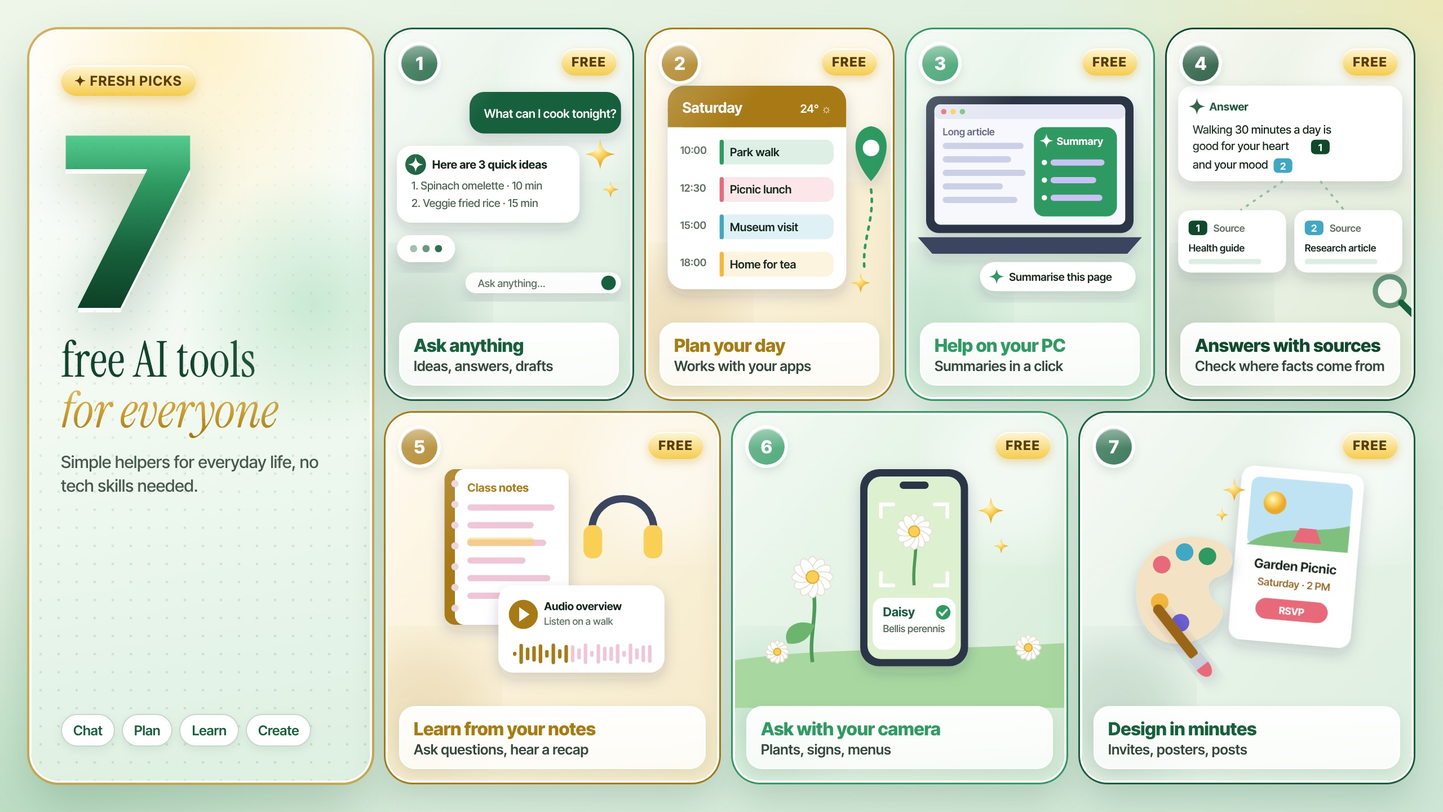
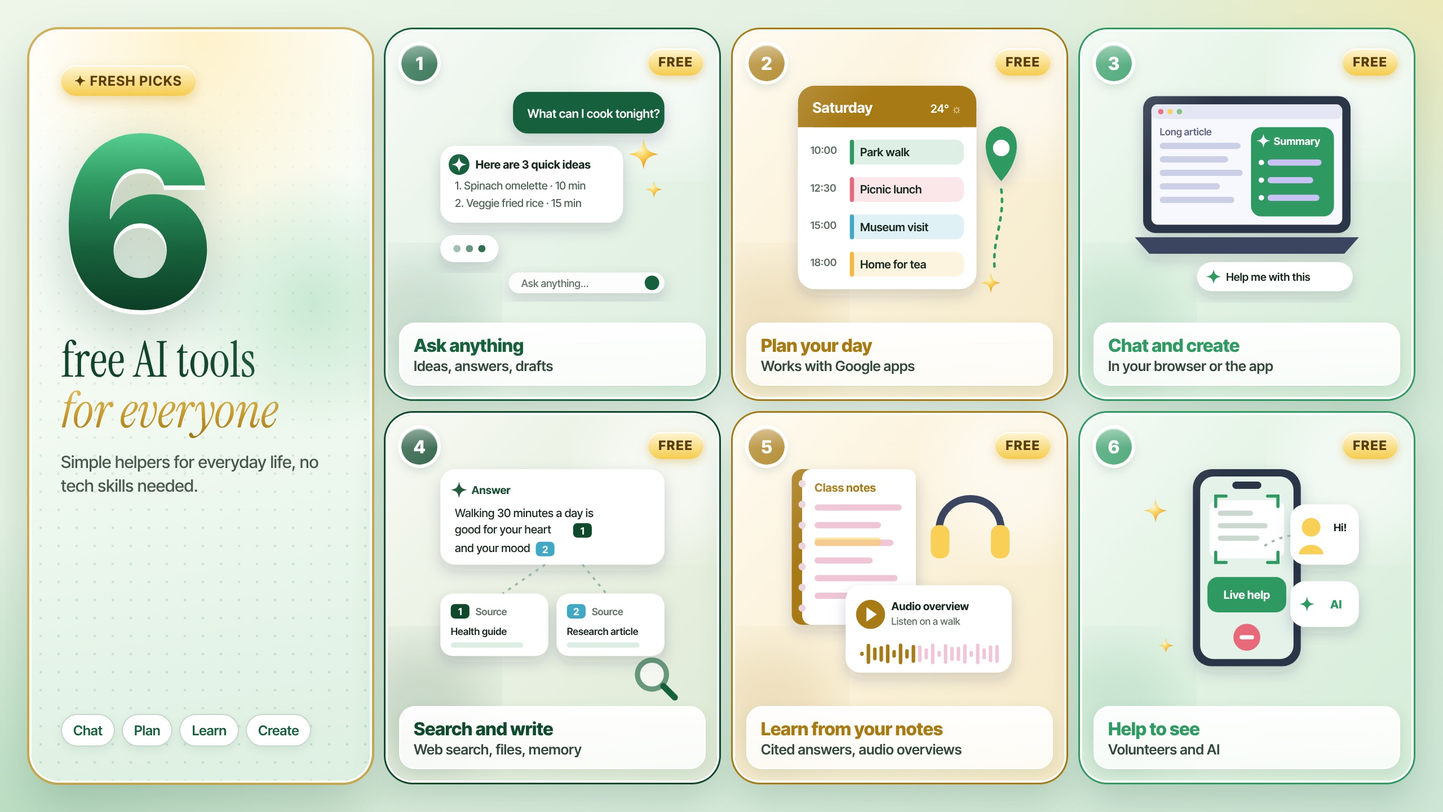
Verify the remaining facts against their sources
- AI toolkit: rewrite as "6 free AI tools" with features from each tool's
  own page; NotebookLM is now Gemini Notebook; remove Google Lens, Canva and
  Merlin Bird ID (couldn't be confirmed); new six-tile cover
- Everyday AI: match Turing, Dartmouth and the perceptron to their sources;
  remove ELIZA and Seeing AI; describe Be My Eyes from its own website
- Glossary: Turing test definition matches its source
- VERIFY-SOURCES.md: every remaining fact confirmed

Claude-Session: https://claude.ai/code/session_011joVF6bbyZDhpZpCEdrVDq

diff --git a/src/data/glossary.ts b/src/data/glossary.ts
@@ -54,7 +54,7 @@ export const GLOSSARY: GlossaryTerm[] = [
   { term: 'Token', definition: 'A small piece of text, often a word or part of a word, that a chatbot reads and writes instead of individual letters.', article: 'tokenizers-quirks' },
   { term: 'Training data', definition: 'The examples a model learns from, such as labelled photos, recorded speech or text.' },
   { term: 'Transformer', definition: 'The design, introduced in 2017, that most modern chatbots are built on. Its key idea is attention.', article: 'attention-step-by-step' },
-  { term: 'Turing test', definition: 'Alan Turing’s 1950 idea for judging machine intelligence: can a person tell a machine apart from a human in a text conversation?', article: 'ai-origins-everyday-life' },
+  { term: 'Turing test', definition: 'Alan Turing’s 1950 “imitation game” for thinking about machine intelligence: an interrogator questions a person and a machine without seeing them and tries to tell which is which.', article: 'ai-origins-everyday-life' },
   { term: 'Validation loss', definition: 'How well a model does on examples it has never seen while training. Watching it helps spot overfitting.', article: 'validation-loss-rising' },
   { term: 'Weight decay', definition: 'A gentle nudge during training that keeps a model’s settings small, encouraging simpler, more general answers.', article: 'validation-loss-rising' },
 ];

diff --git a/src/content/posts/top-7-ai-tools.md b/src/content/posts/top-7-ai-tools.md
@@ -1,96 +1,86 @@
 ---
-title: "AI toolkit: the 7 best free AI tools for everyday life"
-description: "Seven friendly AI tools anyone can try for free: for answering questions, planning your week, studying, designing and even identifying plants with your camera."
+title: "AI toolkit: 6 free AI tools for everyday life"
+description: "Six AI tools you can start using for free, checked against each tool's own website: for questions, planning, writing, studying your notes and help to see."
 pubDate: 2026-11-05
 topic: "AI Toolkit"
 level: Beginner
 cover: /images/cover-top-7-tools.jpg
-coverAlt: "A bento-style collage on a soft sage background: a light, glossy title card with a big glossy green 7 reading 'free AI tools for everyone', beside seven numbered tiles marked free, each showing a small app scene: a chat suggesting quick dinners, a Saturday plan with a map pin, a laptop summarising a page, an answer with numbered sources, class notes with an audio overview, a phone camera identifying a daisy, and a garden picnic invitation with a paint palette."
+coverAlt: "A bento-style collage on a soft sage background: a light title card with a big glossy green 6 reading 'free AI tools for everyone', beside six numbered tiles marked free: a chat suggesting quick dinners, a Saturday plan with a map pin, a laptop chat, an answer with numbered sources, class notes with an audio overview, and a phone offering live visual help from a volunteer and AI."
 takeaways:
-  - "You only need one or two AI tools to start, and all seven here have a free version."
-  - "Pick by job: chat assistants for ideas, Perplexity for sources, NotebookLM for notes, Lens for the world around you, Canva for design."
-  - "Double-check important facts and keep private details out of your chats."
+  - "You only need one or two AI tools to start, and all six here can be used for free."
+  - "Pick by job: a chat assistant for ideas and writing, Gemini Notebook for your own notes, Be My Eyes for help to see."
+  - "Free plans have usage limits, so double-check important facts and keep private details out of your chats."
 ---
 
-There are thousands of AI tools out there, and new ones seem to arrive every week. It's easy to feel you're missing out, or to not know where to begin.
+There are lots of AI tools out there, and new ones arrive all the time. The good news: you don't need many to start.
 
-The good news: you don't need many. Here are seven friendly tools that each do one everyday job really well. All of them have a **free version**, and none of them need any technical knowledge.
+Here are six friendly tools for everyday jobs. Each one has a free plan or free app, which I checked on the tool's own website in November 2026. You can start with any of them by simply typing a question.
 
-## 1. ChatGPT: your all-round helper
+## 1. ChatGPT: an all-round helper
 
 **Best for:** questions, ideas, explanations and first drafts.
 
-ChatGPT is a chat assistant from OpenAI. You type (or speak) a question, and it answers in plain language. It's a great place to start because it can help with almost anything: planning a birthday party, explaining a confusing letter, or suggesting a recipe for what's left in your fridge.
+ChatGPT is a chat assistant from OpenAI. Its free plan includes unlimited text chats, plus a limited number of file uploads, image creations and voice chats.
 
 > **Try this:** "I have eggs, spinach and half an onion. Suggest three quick dinners, with steps."
 
 [chatgpt.com](https://chatgpt.com)
 
-## 2. Google Gemini: help inside the apps you already use
+## 2. Google Gemini: help that works with Google apps
 
-**Best for:** people who use Gmail, Google Docs, Maps or an Android phone.
+**Best for:** people who use Gmail, Google Docs, Maps or YouTube.
 
-Gemini is Google's AI assistant. Alongside chatting, it can connect with Google apps when you allow it, so it can help summarise a long email thread or plan a day trip with places from Maps.
+Gemini is Google's AI assistant, free with a Google Account. You can choose to turn on its connections to other Google services, such as Workspace, Maps and YouTube, and turn them off again.
 
 > **Try this:** "Plan a relaxed Saturday in [your town] with a park, a café and a museum, and keep travel time short."
 
-[gemini.google.com](https://gemini.google.com)
+[gemini.google](https://gemini.google/overview/)
 
-## 3. Microsoft Copilot: a helper on your Windows PC
+## 3. Microsoft Copilot: Microsoft's AI assistant
 
-**Best for:** people who use Windows, Edge or Microsoft Office.
+**Best for:** people who use Microsoft products.
 
-Copilot is Microsoft's AI assistant. It's built into Windows and the Edge browser, so it's often only a click away. It can answer questions, summarise a web page you're reading, or help you write a polite reply.
+Copilot is Microsoft's AI assistant. You can chat with it for free in your web browser or its app. Paid Microsoft 365 plans add higher usage and Copilot inside the Word, Excel, PowerPoint and Outlook desktop apps.
 
-> **Try this:** open a long article in Edge and ask Copilot, "Summarise this page in five bullet points."
+> **Try this:** "Help me write a short, polite reply declining a meeting invitation."
 
 [copilot.microsoft.com](https://copilot.microsoft.com)
 
-## 4. Perplexity: answers with sources
+## 4. Claude: chat, search and create files
 
-**Best for:** looking things up when you want to check where the answer came from.
+**Best for:** writing, research and working through ideas.
 
-Perplexity works like a search engine that writes you a short answer, then lists the websites it used. Being able to click through to the original source makes it easier to check facts, which is always a good habit with AI.
+Claude is a chat assistant from Anthropic. Its free plan works on the web, desktop and mobile. It can search the web, create files and run code, and it remembers context across conversations. Free use is limited every 5 hours and every week.
 
-> **Try this:** "What are the health benefits of walking 30 minutes a day? Include sources."
+> **Try this:** "Turn these rough notes into a friendly one-page newsletter for my book club."
 
-[perplexity.ai](https://www.perplexity.ai)
+[claude.ai](https://claude.ai)
 
-## 5. NotebookLM: learn from your own notes
+## 5. Gemini Notebook: learn from your own sources
 
 **Best for:** students, book clubs and anyone with lots of reading.
 
-NotebookLM from Google lets you upload your own documents, such as class notes, PDFs or articles, and then ask questions about them. Its answers point to the exact part of your documents they came from. It can even turn your notes into a friendly, podcast-style audio summary to listen to on a walk.
+Gemini Notebook is Google's notebook tool. (The old NotebookLM web address now leads here.) You add your own sources, such as PDFs, websites, YouTube videos, audio files, Google Docs or Slides, then chat with your notebook. Its answers include in-line citations, so you can see which source they came from.
 
-> **Try this:** upload a long report and ask, "What are the three main points, and what should I do next?"
+It can also turn your sources into study guides, mind maps and **Audio Overviews**: discussions between AI hosts that summarise the key topics. It supports more than 80 languages, and you can use it without a paid plan.
 
-[notebooklm.google.com](https://notebooklm.google.com)
+> **Try this:** add a long report and ask, "What are the three main points, and what should I do next?"
 
-## 6. Google Lens: ask questions with your camera
+[notebook.google](https://notebook.google)
 
-**Best for:** curious minds, travellers and gardeners.
+## 6. Be My Eyes: help to see
 
-Point your phone camera at something and Google Lens tells you about it. It can name a plant or a bird, translate a menu in another language, or copy text from a sign into your notes. It's built into the Google app and many Android cameras.
+**Best for:** blind and low-vision people, and anyone who supports them.
 
-> **Try this:** next time you're on a walk, point your camera at a flower you don't recognise.
+The free Be My Eyes app connects blind and low-vision people with real-time visual help from volunteers around the world. It also offers an AI assistant called Be My AI.
 
-[lens.google](https://lens.google)
+> **Try this:** if you have good eyesight, sign up as a volunteer and help someone when you're free.
 
-## 7. Canva: design in minutes
+[bemyeyes.com](https://www.bemyeyes.com)
 
-**Best for:** invitations, posters, social posts and presentations.
+## Also worth a look
 
-Canva is a design website with friendly AI features (called Magic Studio). You can describe an image you'd like, resize a design for different platforms, or get help writing the text. It's lovely for school projects, small businesses and family events.
-
-> **Try this:** "Make a cheerful invitation for a garden picnic on Saturday at 2pm."
-
-[canva.com](https://www.canva.com)
-
-## Honourable mentions
-
-- **[Claude](https://claude.ai):** a thoughtful chat assistant from Anthropic, especially good for writing and working through long documents.
-- **[Merlin Bird ID](https://merlin.allaboutbirds.org):** a free app from the Cornell Lab of Ornithology that identifies birds from their song. A real joy on a morning walk.
-- **[Be My Eyes](https://www.bemyeyes.com):** a free app that uses AI and volunteers to help blind and low-vision people with everyday tasks.
+**[Perplexity](https://www.perplexity.ai)** gives answers with a list of the sources it used, so you can check where information came from. Check its website for its current plans.
 
 ## How to choose
 
@@ -98,26 +88,25 @@ You really only need one or two to start:
 
 | If you want to… | Start with |
 | --- | --- |
-| Ask anything and get ideas | ChatGPT, Gemini or Copilot |
-| Check facts with sources | Perplexity |
-| Study your own documents | NotebookLM |
-| Learn about the world around you | Google Lens |
-| Make something that looks good | Canva |
+| Ask anything and get ideas | ChatGPT, Gemini, Copilot or Claude |
+| Study your own documents | Gemini Notebook |
+| Check where an answer came from | Gemini Notebook (citations) or Perplexity (sources) |
+| Get help seeing something | Be My Eyes |
 
 ## A few friendly safety tips
 
 - **Double-check important facts**, especially about health, money or the law.
 - **Keep private details private.** Avoid sharing passwords, bank details or other people's personal information.
-- **Look at the settings.** Many tools let you choose whether your chats are saved or used to improve the service.
-- **Free versions have limits.** That's fine for everyday use; you can always decide later if a paid plan is worth it.
+- **Look at the settings.** Check what each tool can connect to, and turn off anything you don't need.
+- **Free plans have limits.** That's fine for everyday use; you can decide later if a paid plan is worth it.
 
 ## Common questions
 
 **Are these tools really free?**
-Yes, each one has a free version. Some limit how much you can use them each day, or keep newer features for paid plans.
+Yes. Each tool's website lists a free plan or free app (checked in November 2026). Free plans have usage limits, and some features are kept for paid plans.
 
 **Do I need to install anything?**
-Most work in your web browser. Google Lens, Merlin and Be My Eyes are easiest to use as phone apps.
+No for most of them: ChatGPT, Gemini, Copilot, Claude and Gemini Notebook work in your web browser. Be My Eyes is designed for your phone's camera, and also has a desktop version.
 
 **Which one is the best?**
 The best tool is the one that fits your everyday job. Try one this week, and keep it if it saves you time or brings you joy.
@@ -126,15 +115,18 @@ The best tool is the one that fits your everyday job. Try one this week, and kee
 
 Pick **one** tool from this list and use it for one small task each day for a week. Notice what it does well and where you still prefer to do things yourself. Then come and tell me on [LinkedIn](https://www.linkedin.com/in/thahira-syed-2827ba426/) which one you chose!
 
-> **A quick note:** these are my own friendly picks, and nobody paid to be included. Product names belong to their owners, and AIERA-TS isn't connected to any of these companies. Features and free plans change over time, so check each tool's website for the latest details.
+> **A quick note:** these are my own picks, and nobody paid to be included. Product names belong to their owners, and AIERA-TS isn't connected to any of these companies. Features and free plans change over time, so check each tool's website for the latest details.
 
 ## Sources & further reading
 
-Each tool's official website, where you can check the latest features and free plans (this list was written in November 2026):
+Each tool's own page, opened on 15 November 2026:
 
-- OpenAI, [ChatGPT](https://chatgpt.com) · Google, [Gemini](https://gemini.google.com) · Microsoft, [Copilot](https://copilot.microsoft.com)
-- [Perplexity](https://www.perplexity.ai) · Google, [NotebookLM](https://notebooklm.google.com) · Google, [Lens](https://lens.google) · [Canva](https://www.canva.com)
-- Anthropic, [Claude](https://claude.ai) · Cornell Lab of Ornithology, [Merlin Bird ID](https://merlin.allaboutbirds.org) · [Be My Eyes](https://www.bemyeyes.com)
+- OpenAI, [*ChatGPT pricing*](https://chatgpt.com/pricing/)
+- Google, [*Gemini plans*](https://gemini.google/subscriptions/) and [*Gemini overview*](https://gemini.google/overview/)
+- Microsoft, [*Copilot for individuals*](https://www.microsoft.com/en-us/microsoft-copilot/for-individuals)
+- Anthropic, [*Claude pricing*](https://claude.com/pricing)
+- Google, [*Learn about Gemini Notebook*](https://support.google.com/gemininotebook/answer/16164461), [*Gemini Notebook plans*](https://support.google.com/gemininotebook/answer/16213268) and [*Audio Overview*](https://support.google.com/gemininotebook/answer/16212820)
+- [*Be My Eyes*](https://www.bemyeyes.com/)
+- Perplexity, [*Getting started*](https://www.perplexity.ai/hub/getting-started)
 - [AI agents unpacked: your new digital assistant](/blog/what-is-agentic-ai/)
 - [LLM evaluation made simple: how to test a chatbot fairly](/blog/evaluating-llm-outputs/)
-- [Creative AI: how to use AI as your creative co-pilot](/blog/ai-creativity-guide/)

diff --git a/VERIFY-SOURCES.md b/VERIFY-SOURCES.md
@@ -1,9 +1,9 @@
 # Fact check against sources (content rule 2)
 
-Checked by Claude on 15 November 2026 by opening each source page. This file is not part of the website.
+Checked by Claude on 15 November 2026 by opening each source page. Every fact is now confirmed. This file is not part of the website.
 
 - **Ticked** = the source page was opened and confirms the fact.
-- **Unticked** = the source couldn't be opened automatically (the publisher blocks automated readers). Please check these by hand.
+- Facts that couldn't be confirmed from an opened source have been removed from the articles.
 
 ## Banking and insurance security (`ai-in-banking-and-insurance`)
 
@@ -24,10 +24,11 @@ Checked by Claude on 15 November 2026 by opening each source page. This file is 
 - [x] Project Green Light: "early numbers indicate a potential for up to 30% reduction in stops and 10% reduction in greenhouse gas emissions" ([Google](https://sites.research.google/gr/greenlight/)). **Corrected:** the article said "up to 10% lower emissions"; it now matches the source's wording.
 - [x] See & Spray reduces herbicide use: John Deere says it "significantly" reduces it ([John Deere](https://www.deere.com/en-us/products-solutions/sprayers-and-applicators/see-spray)). **Corrected:** "herbicide savings of more than half" isn't on John Deere's page, so it was replaced with John Deere's own wording.
 - **Removed:** the PlantVillage Nuru app (offline crop diagnosis). The PlantVillage website doesn't mention it.
-- [ ] Turing asked "Can machines think?" (1950): https://doi.org/10.1093/mind/LIX.236.433 (link works; the publisher blocks automated reading)
-- [ ] The 1956 Dartmouth workshop named "artificial intelligence": https://jmc.stanford.edu/articles/dartmouth/dartmouth.pdf (couldn't be opened securely from Claude's workspace)
-- [ ] Rosenblatt's perceptron (1958): https://doi.org/10.1037/h0042519 (link works; the publisher blocks automated reading)
-- [ ] Weizenbaum's ELIZA (1966): https://doi.org/10.1145/365153.365168 (link works; the publisher blocks automated reading)
+- [x] Turing's 1950 proposal, the "imitation game": an interrogator questions a person and a machine and tries to tell which is which ([Stanford Encyclopedia of Philosophy](https://plato.stanford.edu/entries/turing-test/)). **Corrected:** the article now describes the test as the source does. The glossary definition was updated too.
+- [x] The 1956 Dartmouth Summer Research Project on Artificial Intelligence, "organized by John McCarthy", was "the birth of this field of research" ([Dartmouth College](https://home.dartmouth.edu/about/artificial-intelligence-ai-coined-dartmouth)).
+- [x] In July 1958, Rosenblatt's perceptron "taught itself to distinguish cards marked on the left from cards marked on the right"; a Cornell professor calls it "the first neural network" ([Cornell Chronicle](https://news.cornell.edu/stories/2019/09/professors-perceptron-paved-way-ai-60-years-too-soon)).
+- **Removed:** ELIZA (1966). No source could be opened.
+- **Removed:** Microsoft's Seeing AI app and the examples of what Be My AI can do (reading labels, explaining buttons). They were replaced with what Be My Eyes' own website says: the free app "connects blind and low-vision users with real-time visual assistance from volunteers around the world", plus an AI assistant called Be My AI ([Be My Eyes](https://www.bemyeyes.com/)).
 
 ## AI for the planet (`ai-protecting-nature`)
 
@@ -41,4 +42,13 @@ Checked by Claude on 15 November 2026 by opening each source page. This file is 
 
 ## AI toolkit (`top-7-ai-tools`)
 
-- [ ] Each tool still has a free version, and the features described still exist. Not checked: the tool websites weren't on the list of sites Claude was allowed to open. Check each tool's website, linked in the article.
+Rewritten as "6 free AI tools for everyday life", with a new cover. Every feature in it comes from the tool's own page, opened on 15 November 2026:
+
+- [x] ChatGPT: free plan with "unlimited text chats" and limited uploads, image creation and voice chats ([pricing](https://chatgpt.com/pricing/)).
+- [x] Gemini: "$0 / month with a Google Account" ([plans](https://gemini.google/subscriptions/)); you can turn access to extensions such as Workspace, Maps and YouTube on or off ([overview](https://gemini.google/overview/)).
+- [x] Copilot: a free tier exists, since paid plans offer "higher usage than free", and Microsoft 365 adds Copilot in the Word, Excel, PowerPoint and Outlook desktop apps ([Microsoft](https://www.microsoft.com/en-us/microsoft-copilot/for-individuals)).
+- [x] Claude: "$0 Free for everyone": chat on web, desktop and mobile; web search, files and code; memory across conversations; limited usage every 5 hours and every week ([pricing](https://claude.com/pricing)).
+- [x] Gemini Notebook: upload PDFs, websites, YouTube videos, audio, Google Docs or Slides; in-line citations; study guides, mind maps and Audio Overviews; 80+ languages; usable without an AI plan ([about](https://support.google.com/gemininotebook/answer/16164461), [plans](https://support.google.com/gemininotebook/answer/16213268), [Audio Overview](https://support.google.com/gemininotebook/answer/16212820)). **Corrected:** NotebookLM is now called Gemini Notebook, and its old web address leads to the new one.
+- [x] Be My Eyes: free, with volunteers and Be My AI ([Be My Eyes](https://www.bemyeyes.com/)).
+- [x] Perplexity: answers with the sources listed ([Perplexity](https://www.perplexity.ai/hub/getting-started)). Its free plan couldn't be confirmed, so it's now an "also worth a look" mention with no free claim.
+- **Removed:** Google Lens, Canva and Merlin Bird ID. Their websites redirected elsewhere or blocked automated readers, so their free plans and features couldn't be confirmed.

diff --git a/src/content/posts/ai-origins-everyday-life.md b/src/content/posts/ai-origins-everyday-life.md
@@ -18,11 +18,11 @@ Artificial intelligence can feel like it arrived overnight. In reality, it's an 
 
 ![Illustrated timeline of AI history: a mathematician writing at a desk, a room-sized vintage computer, a chessboard, a Go board and a modern smartphone showing a chat bubble.](/images/ai-everyday-history.jpg)
 
-**1950: a question.** Alan Turing asked, "Can machines think?" and proposed the Turing test: if a person chatting by text cannot tell a machine from a human, perhaps the machine is intelligent.
+**1950: a question.** Alan Turing took on the question of whether machines can think. He proposed an "imitation game", now called the Turing test: an interrogator questions a person and a machine without seeing them, and tries to work out which is which.
 
-**1956: a name.** John McCarthy and colleagues organised a summer workshop at Dartmouth College, and the term "artificial intelligence" was born.
+**1956: a name.** John McCarthy organised the Dartmouth Summer Research Project on Artificial Intelligence, the event where the term "artificial intelligence" was coined and the field of research was born.
 
-**1958 to 1966: first steps.** Frank Rosenblatt's perceptron learned simple patterns, an ancestor of today's neural networks. Joseph Weizenbaum's ELIZA chatted by matching keywords, the great-grandparent of modern chatbots.
+**1958: first steps.** Frank Rosenblatt demonstrated the perceptron, which taught itself to tell apart cards marked on the left from cards marked on the right. A Cornell professor calls it "the first neural network", and its principles helped spark today's AI revolution.
 
 **1970s and late 1980s: two "AI winters".** Hopes ran ahead of what computers could do at the time, so interest and funding cooled off twice.
 
@@ -49,7 +49,7 @@ Google Maps uses machine learning on live location data to predict traffic. Goog
 
 ### Accessibility
 
-Microsoft's free [Seeing AI](https://www.seeingai.com/) app describes people, text and objects aloud for blind and low-vision users. [Be My Eyes](https://www.bemyeyes.com/) added an AI assistant that can read a medicine label or explain the buttons on a washing machine, so tasks that once needed help can be done independently.
+The free [Be My Eyes](https://www.bemyeyes.com/) app connects blind and low-vision people with real-time visual help from volunteers around the world, and also offers an AI assistant called Be My AI.
 
 ### Health
 
@@ -80,7 +80,7 @@ You don't need to be technical to benefit. Some simple starting points:
 3. **Save energy.** Use a smart thermostat or smart plugs, and check your energy supplier's app for usage insights.
 4. **Stay healthy.** Use step, sleep and heart-rate tracking as gentle reminders, but treat any health alert as a reason to talk to a professional, not as a diagnosis.
 5. **Help nature.** Apps such as iNaturalist and Merlin Bird ID identify plants, insects and birds from a photo or a recording. Your observations also feed real scientific research.
-6. **Make things accessible.** Try accessibility apps such as Seeing AI or Be My Eyes for yourself or a family member.
+6. **Make things accessible.** Try the free Be My Eyes app for yourself or a family member, or sign up to help as a volunteer.
 
 ## Using AI wisely
 
@@ -102,10 +102,9 @@ AI began as a question about whether machines could think. Today a better questi
 
 ## Sources & further reading
 
-- Alan Turing, [*Computing Machinery and Intelligence*](https://doi.org/10.1093/mind/LIX.236.433) (Mind, 1950), the paper that asked "Can machines think?"
-- McCarthy et al., [*A Proposal for the Dartmouth Summer Research Project on Artificial Intelligence*](http://jmc.stanford.edu/articles/dartmouth/dartmouth.pdf) (1955), which named the field.
-- Frank Rosenblatt, [*The Perceptron*](https://doi.org/10.1037/h0042519) (Psychological Review, 1958).
-- Joseph Weizenbaum, [*ELIZA*](https://doi.org/10.1145/365153.365168) (Communications of the ACM, 1966).
+- Stanford Encyclopedia of Philosophy, [*The Turing Test*](https://plato.stanford.edu/entries/turing-test/), on Turing's 1950 proposal and the imitation game.
+- Dartmouth College, [*Artificial Intelligence (AI) Coined at Dartmouth*](https://home.dartmouth.edu/about/artificial-intelligence-ai-coined-dartmouth), on the 1956 workshop.
+- Cornell Chronicle, [*Professor's perceptron paved the way for AI – 60 years too soon*](https://news.cornell.edu/stories/2019/09/professors-perceptron-paved-way-ai-60-years-too-soon) (2019).
 - IBM, [*Deep Blue*](https://www.ibm.com/history/deep-blue), on the 1997 match with Garry Kasparov.
 - Krizhevsky, Sutskever & Hinton, [*ImageNet Classification with Deep Convolutional Neural Networks*](https://papers.nips.cc/paper/2012/hash/c399862d3b9d6b76c8436e924a68c45b-Abstract.html) (2012), known as AlexNet.
 - Google DeepMind, [*AlphaGo*](https://deepmind.google/research/breakthroughs/alphago/), on the 2016 match with Lee Sedol.
